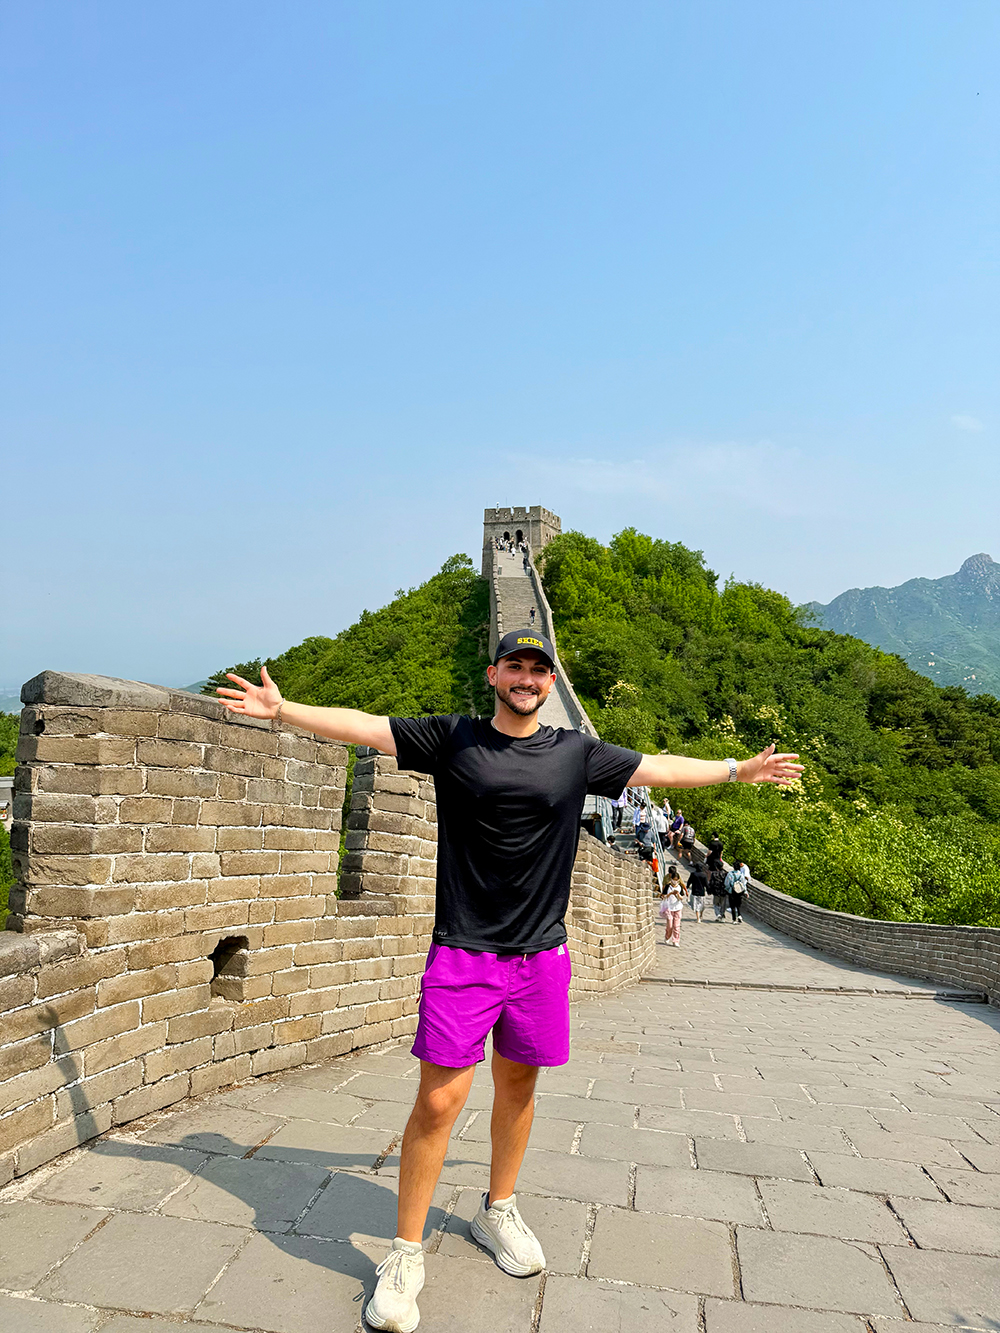
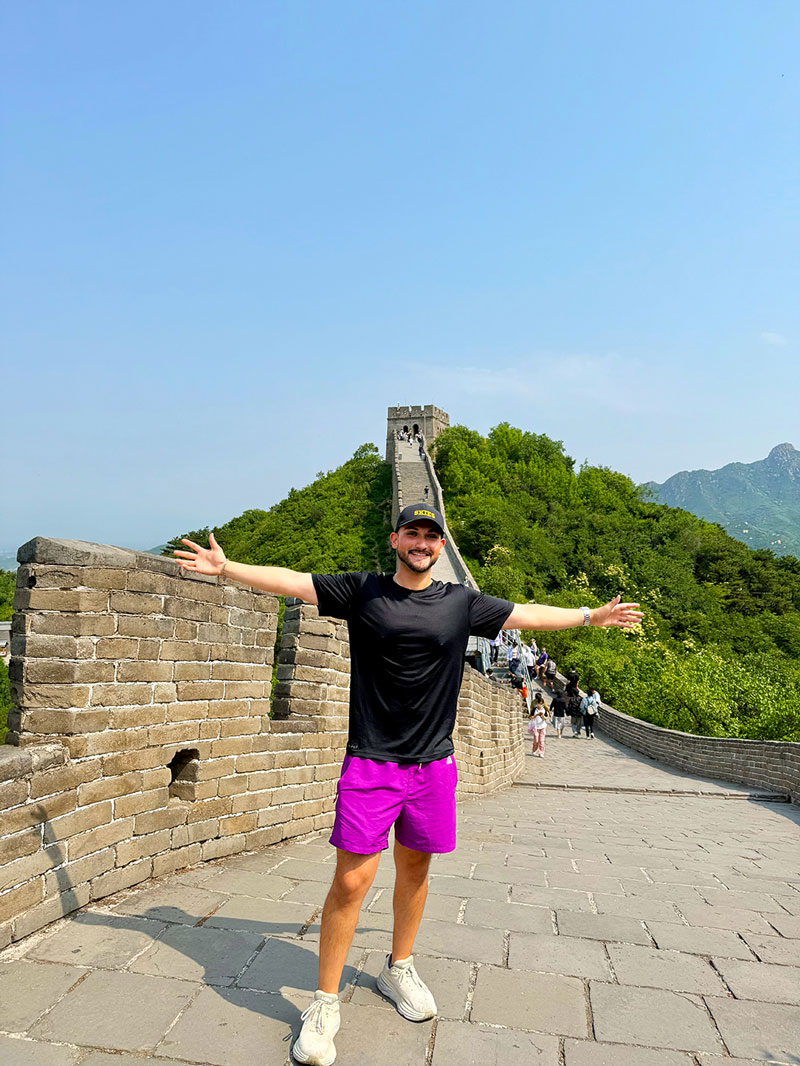
passport image optimization

diff --git a/passport/passport.html b/passport/passport.html
@@ -590,8 +590,8 @@
         program: "",
         purpose: "To give Muscatine students a pre-professional educational experience focused on exploring Chinese culture and language.",
         role: "Student chaperone",
-        stampSvg: "images/hangzhou.svg",
-        image: "hangzhou.jpg",
+        stampSvg: "https://kevinripka-uiowa.github.io/isle2026/passport/images/hangzhou.svg",
+        image: "https://kevinripka-uiowa.github.io/isle2026/passport/images/hangzhou.jpg",
         alt: "Jesse visits the Great Wall of China",
         memory: "Eating a Peking duck dinner for the first time."
       },
@@ -601,8 +601,8 @@
         program: "",
         purpose: "To promote global citizen diplomacy for youth.",
         role: "Student chaperone and ambassador",
-        stampSvg: "images/zhengding.svg",
-        image: "zhengding.jpg",
+        stampSvg: "https://kevinripka-uiowa.github.io/isle2026/passport/images/zhengding.svg",
+        image: "https://kevinripka-uiowa.github.io/isle2026/passport/images/zhengding.jpg",
         alt: "Jesse gathers with his exchange group in Zhengding, China",
         memory: "Trying his hand at making dumplings and grean bean buns for a family dinner."
       },
@@ -612,8 +612,8 @@
         program: "",
         purpose: "To participate in the China-U.S. Young Makers Competition as a representative of the U.S.-China Joint Team through Wanxiang Polytechnic University.",
         role: "Team member",
-        stampSvg: "images/beijing.svg",
-        image: "beijing.jpg",
+        stampSvg: "https://kevinripka-uiowa.github.io/isle2026/passport/images/beijing.svg",
+        image: "https://kevinripka-uiowa.github.io/isle2026/passport/images/beijing.jpg",
         alt: "Jesse speaks at the China-U.S. Young Makers Competition",
         memory: "Helping his team win in their division of the competition by showcasing their friendship as well as the unique connection between them and their countries."
       }